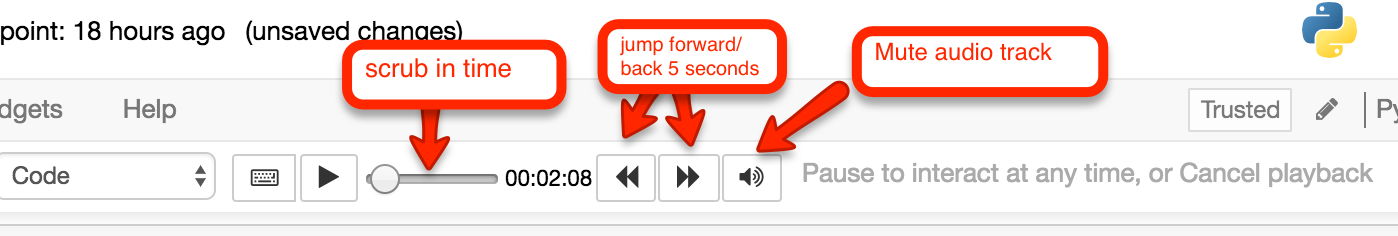
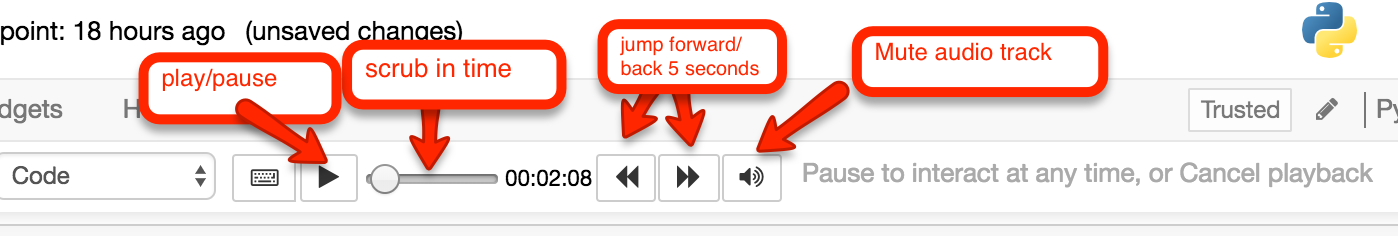
updates to README again

Changed region(s): [[0.0923, 0.2076, 0.2461, 0.7415]]

diff --git a/README.md b/README.md
@@ -264,13 +264,20 @@ text becomes underlined with a dashed underline. Hovering over that
 text will show the *Graffiti* tooltip.  If a recording is stored for
 that *Graffiti* and you press the *Play Movie* button, the movie will
 start to play back. The current state of the notebook will be saved
-and restored when the movie finishes, or playback is cancelled. Playback controls look like this:
+and restored when the movie finishes, or playback is
+cancelled. Playback controls look like this:
 
-![playback_controls](./images/playback_controls.gif)
+![playback_controls](./images/playback_controls.png)
 
-You can press Spacebar to pause a recording. You can press Escape at
+You can press __Spacebar__ to pause a recording. You can press __ESC__ at
 any time to end the recording and return the notebook to its previous
 state.
+
+Note that we use Jupyter's tokenizer to choose how the *Graffiti* is
+attached to which tokens. For instance, if you select part of a
+comment, the entire comment becomes the token because to Jupyter, a
+comment is a single token. However, python keywords like `print` would
+be a single token too. Experiment to see how this functions.
 
 ## Using the Jupyter Graffiti Python API
 
